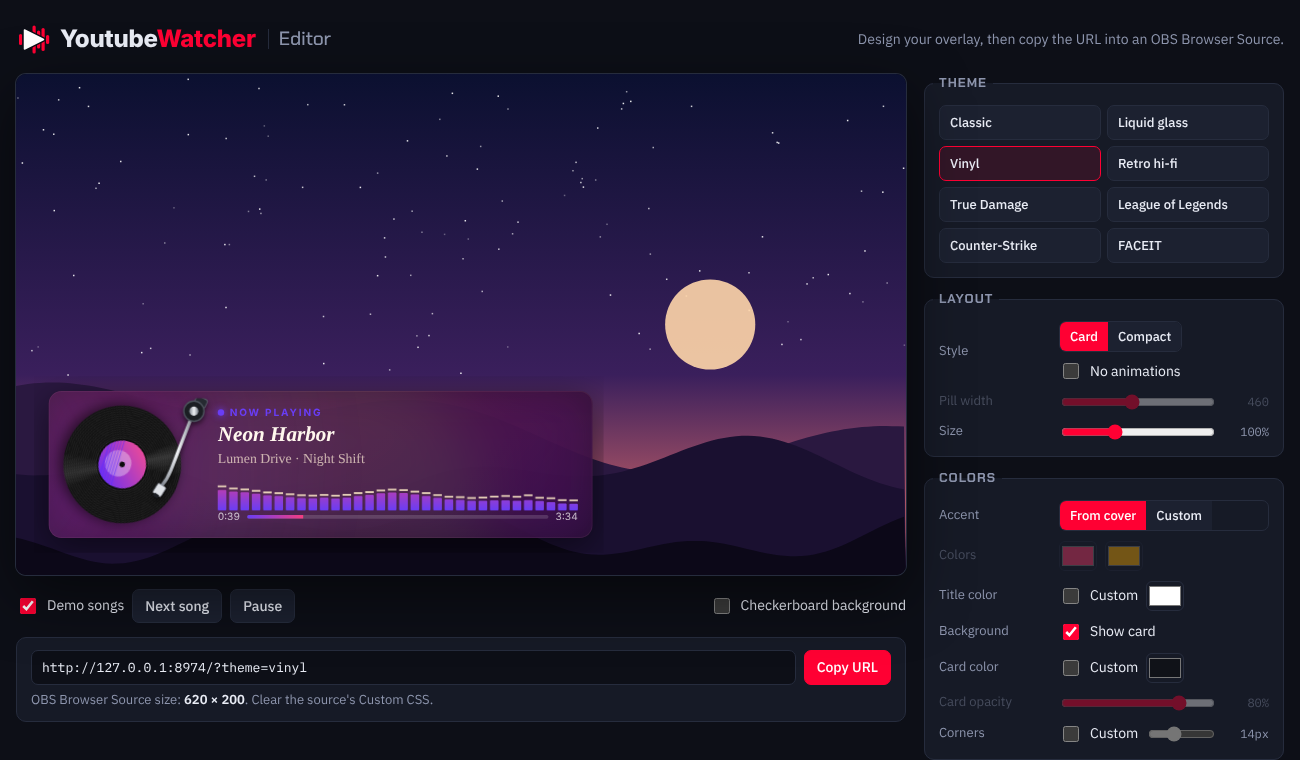
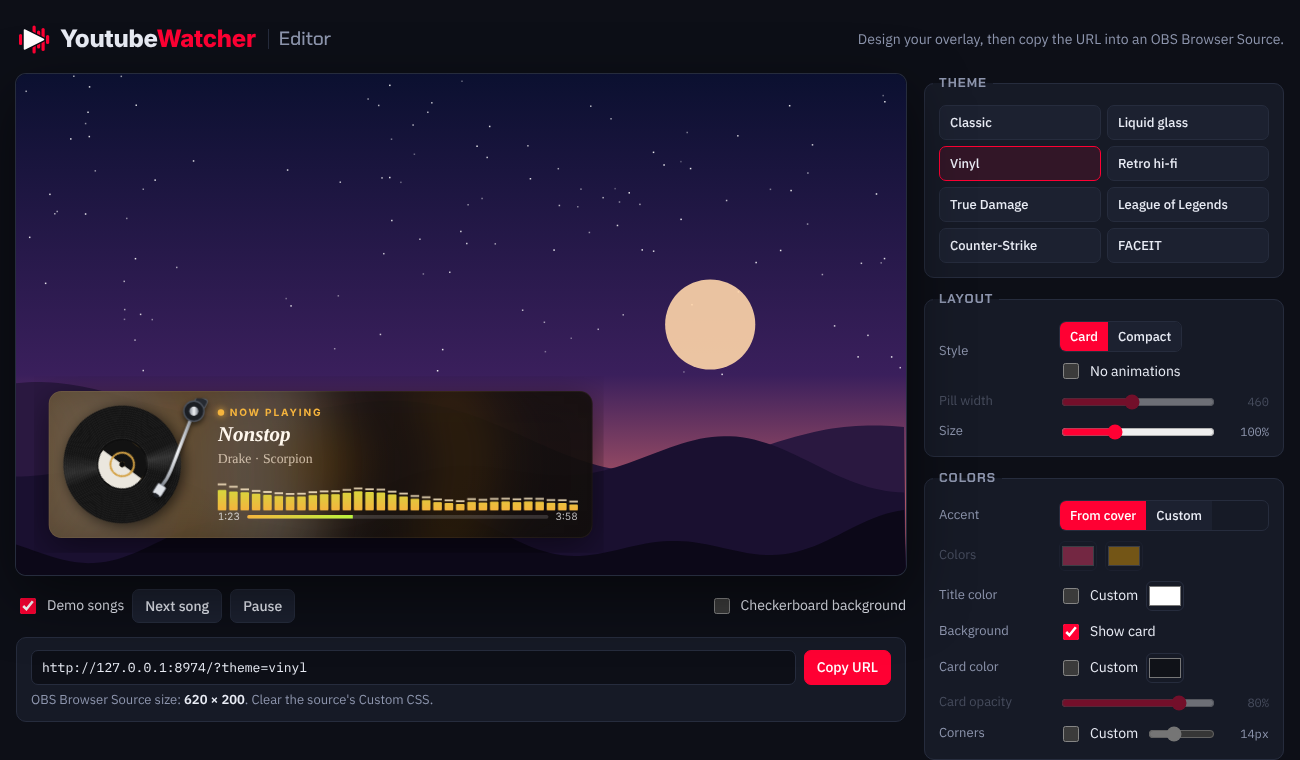
README: Nonstop by Drake in real time across the theme GIF and stills
The GIF now plays one song in real time (20 fps) and the time keeps
running from theme to theme. The compact and editor screenshots use the
same song. The theme overview image is dropped since the header GIF
already shows every theme.

Claude-Session: https://claude.ai/code/session_016wrQfG292TJDYZE7wexwEU

diff --git a/README.md b/README.md
@@ -65,9 +65,7 @@ With the server running, open **[http://127.0.0.1:8974/editor](http://127.0.0.1:
 
 The editor remembers your settings.
 
-## Themes
-
-![All eight themes side by side: Classic, Liquid glass, Vinyl, Retro hi-fi, True Damage, League of Legends, Counter-Strike and FACEIT](docs/themes.png)
+## Compact version
 
 Every theme also has a **compact** version, a slim one-line bar where the progress runs around the cover:
 
